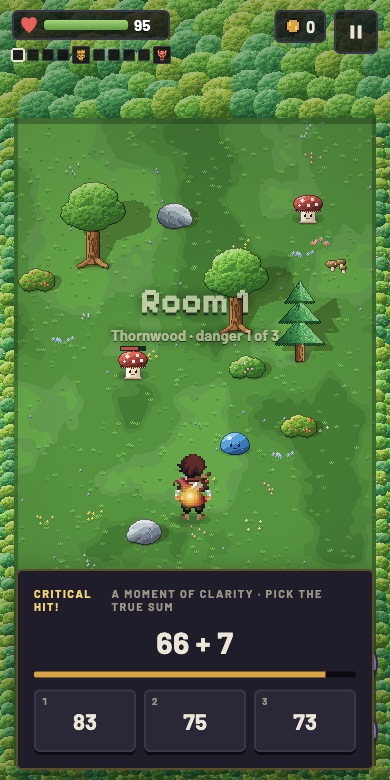
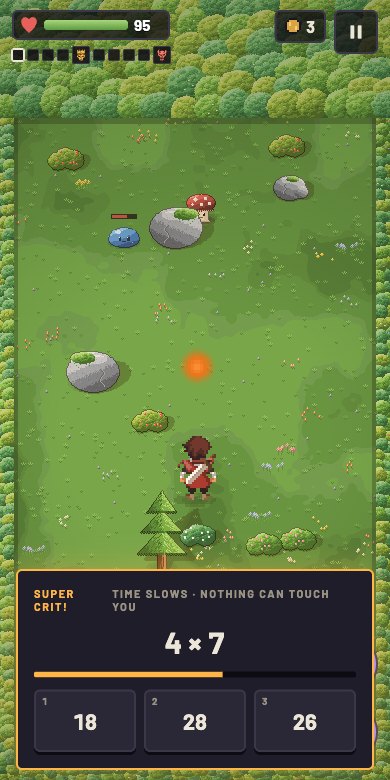
README: shorter, smaller text; crit shot shows the orb in flight; lesson replaces crit in the gallery
Drop How to play (the game shows it). Super crit screenshot catches the orb
halfway to its target instead of on the hero.

diff --git a/README.md b/README.md
@@ -29,57 +29,35 @@
 
 ## The idea
 
-The world has lost its logic. Numbers ran away, and the creatures of the forest *miscount*.
-Math is rare here, and it works like magic: spells are written as sums, and a wrong sum fizzles.
-
-You fight like in an arena shooter: move to dodge, stand still to attack. The math is where your power comes from:
-
-- **Critical hits** freeze time and give you a quick question with three answers. Right answer = a huge hit.
-- **Spells** are typed answers. Each skill asks its own kind of math, and the faster you answer, the stronger it hits.
-- **The forge and chests** ask a sum too. Harder sums give better odds, and exact answers are best.
-- **Training lessons** teach real mental-math shortcuts, like *multiply by 9 = multiply by 10, then take one away*.
-
-Wrong answers never hurt you. They just fizzle.
+<sub>The world lost its logic and the forest creatures miscount. Math is rare here and works like magic: move to dodge,
+stand still to attack, and every crit, spell, chest and forge strike is a sum. A wrong sum just fizzles.
+Training lessons teach real shortcuts, and a memory model brings back what you're about to forget.</sub>
 
 ## Screenshots
 
 <table>
   <tr>
-    <td align="center"><img src="docs/screenshots/fight.png" width="240" alt="Thornwood fight"><br><sub>Thornwood: stand still to attack</sub></td>
-    <td align="center"><img src="docs/screenshots/emberfall.png" width="240" alt="Emberfall"><br><sub>Emberfall: the burning village</sub></td>
-    <td align="center"><img src="docs/screenshots/crit.png" width="240" alt="Critical hit"><br><sub>A crit: pick the true sum</sub></td>
+    <td align="center"><img src="docs/screenshots/fight.png" width="240" alt="Thornwood fight"><br><sub>Thornwood</sub></td>
+    <td align="center"><img src="docs/screenshots/emberfall.png" width="240" alt="Emberfall"><br><sub>Emberfall, the burning village</sub></td>
+    <td align="center"><img src="docs/screenshots/camp.png" width="240" alt="Camp"><br><sub>The camp between runs</sub></td>
   </tr>
   <tr>
-    <td align="center"><img src="docs/screenshots/camp.png" width="240" alt="Camp"><br><sub>The camp between runs</sub></td>
-    <td align="center"><img src="docs/screenshots/meditation.png" width="240" alt="Skill tree"><br><sub>Meditation: the skill tree</sub></td>
-    <td align="center"><img src="docs/screenshots/training.png" width="240" alt="Training yard"><br><sub>Training: math shortcuts</sub></td>
+    <td align="center"><img src="docs/screenshots/training.png" width="240" alt="Training yard"><br><sub>Training yard</sub></td>
+    <td align="center"><img src="docs/screenshots/lesson.png" width="240" alt="A lesson"><br><sub>A lesson: the shortcut, then your turn</sub></td>
+    <td align="center"><img src="docs/screenshots/meditation.png" width="240" alt="Skill tree"><br><sub>The skill tree</sub></td>
   </tr>
 </table>
 
 ## What's in it
 
-- **Two zones, one journey.** Ten rooms of Thornwood (slimes, spore-caps, wisps, charging boars, the mini boss Old Tusk and the boss Old Rootback), then ten rooms of burning Emberfall (imps, cinder hounds, Cinderjaw and the Cinder Golem).
-- **Rooms with cover.** Trees, rocks and ruins block shots. Lure a charging boar into a rock to daze it.
-- **Gear you can see.** Eight slots, rarities from Common to Legendary, and four sets. Everything you wear shows on your hero.
-- **A skill tree.** Three branches (Striker, Warden, Tactician): spells like Chain Lightning, Nova, Frost Field and Meteor, plus passives.
-- **A camp to come home to.** Walk to the Forge, the Training yard, the Notice board or the Meditation stone.
-- **It learns what you need.** A memory model tracks every fact, so what comes back is what you're about to forget. Difficulty keeps you at about 85% right, where learning is fastest.
-- **A daily habit.** A 3-minute daily goal with a chest, streaks, and a 60-second Sprint to beat your own best.
+<sub>
 
-## How to play
+- **Two zones:** Thornwood and burning Emberfall, each with a mini boss and a boss.
+- **Math as power:** crits, typed-answer spells, chests and the forge.
+- **Gear and sets** that show on your hero, and a three-branch **skill tree**.
+- **Learns with you:** difficulty stays around 85% right; a daily 3-minute goal and a 60-second Sprint.
 
-| | Phone | Keyboard |
-|---|---|---|
-| Move | Drag anywhere | WASD / arrows |
-| Attack | Stand still | Stand still |
-| Skills | Tap the skill buttons | Space / E |
-| Crit answer | Tap an answer | 1 / 2 / 3 |
-| Typed answers | Keypad | Digits, then Enter or Space |
-| Use a camp station | Tap it | E, Enter or Space |
-| Bag / Pause | Top buttons | I / Esc |
-
-Play at **[sum-quest.rickardotvos.workers.dev](https://sum-quest.rickardotvos.workers.dev)** on a phone or a computer. On iPhone, **Share → Add to Home Screen** installs it as an app
-that works offline.
+</sub>
 
 ## Run it yourself
 
@@ -94,10 +72,12 @@ The story and the math-as-magic plan: [docs/lore.md](docs/lore.md).
 
 ## Privacy
 
-No accounts, no cookies, no tracking. Your save stays on your device. Settings → **Backup save** gives you a code
-to move your progress to another device.
+<sub>No accounts, no cookies, no tracking. Your save stays on your device. Settings → <b>Backup save</b> gives you a code
+to move your progress to another device.</sub>
 
 ## Credits
+
+<sub>
 
 - Hero sprite: **[Adventurer 2D Top-Down](https://xzany.itch.io/top-down-adventurer-character)** by Mattz Art (free
   version), used and modified under its licence. Gear and weapons are drawn on top of it in code.
@@ -105,5 +85,7 @@ to move your progress to another device.
   [CC BY 3.0](https://creativecommons.org/licenses/by/3.0/), via the `@iconify-json/game-icons` package.
 - Everything else (enemies, camp, props, items, UI) is drawn in code in this repo. The bright top-down look is
   inspired by Cainos' "Pixel Art Top Down" packs; none of their assets are used.
+
+</sub>
 
 Made by [RickardOtv](https://github.com/RickardOtv).
